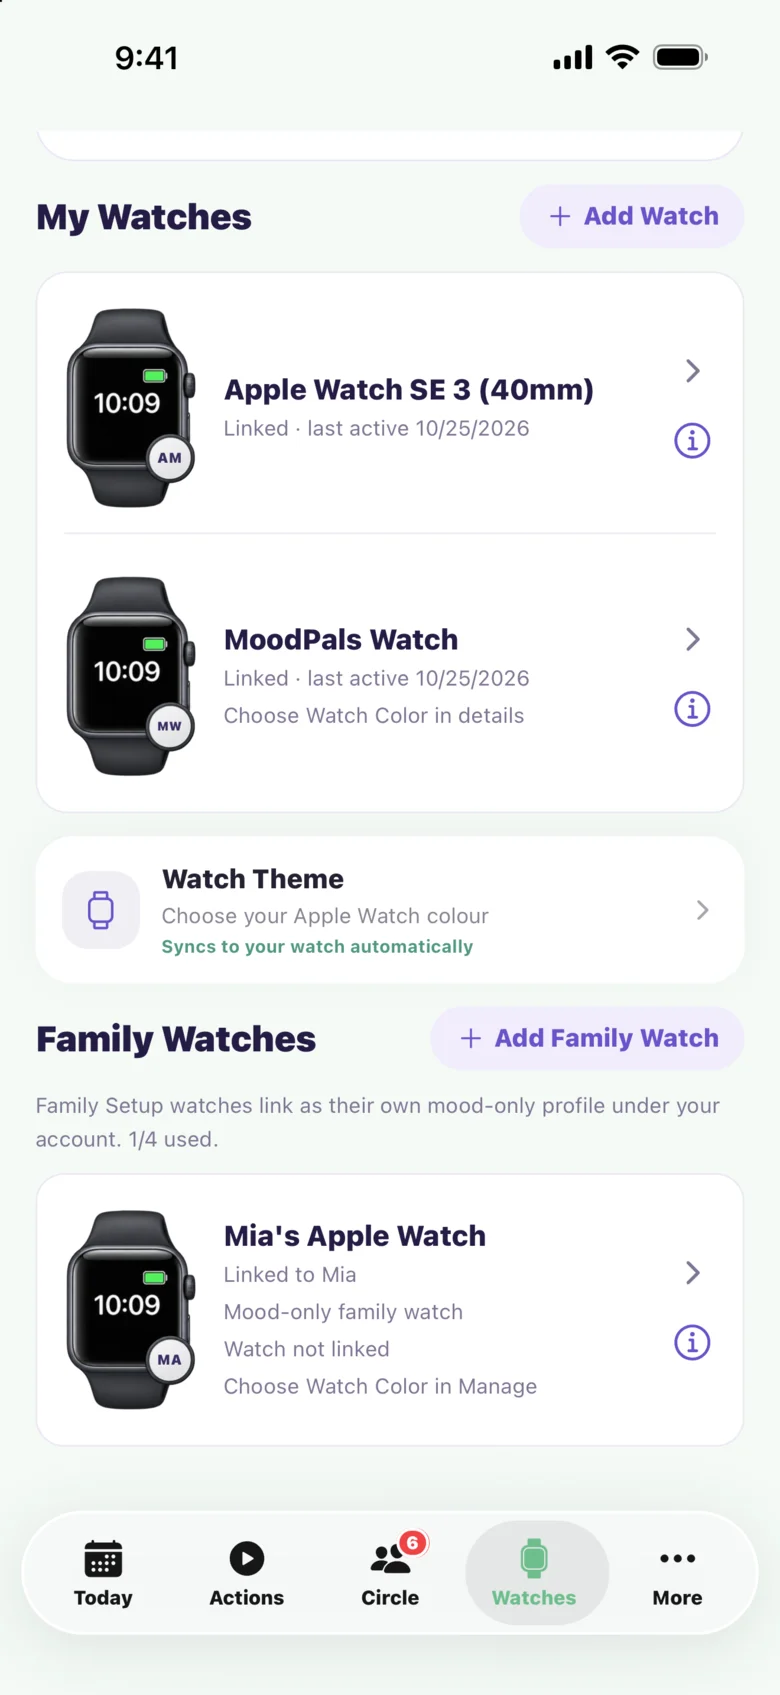
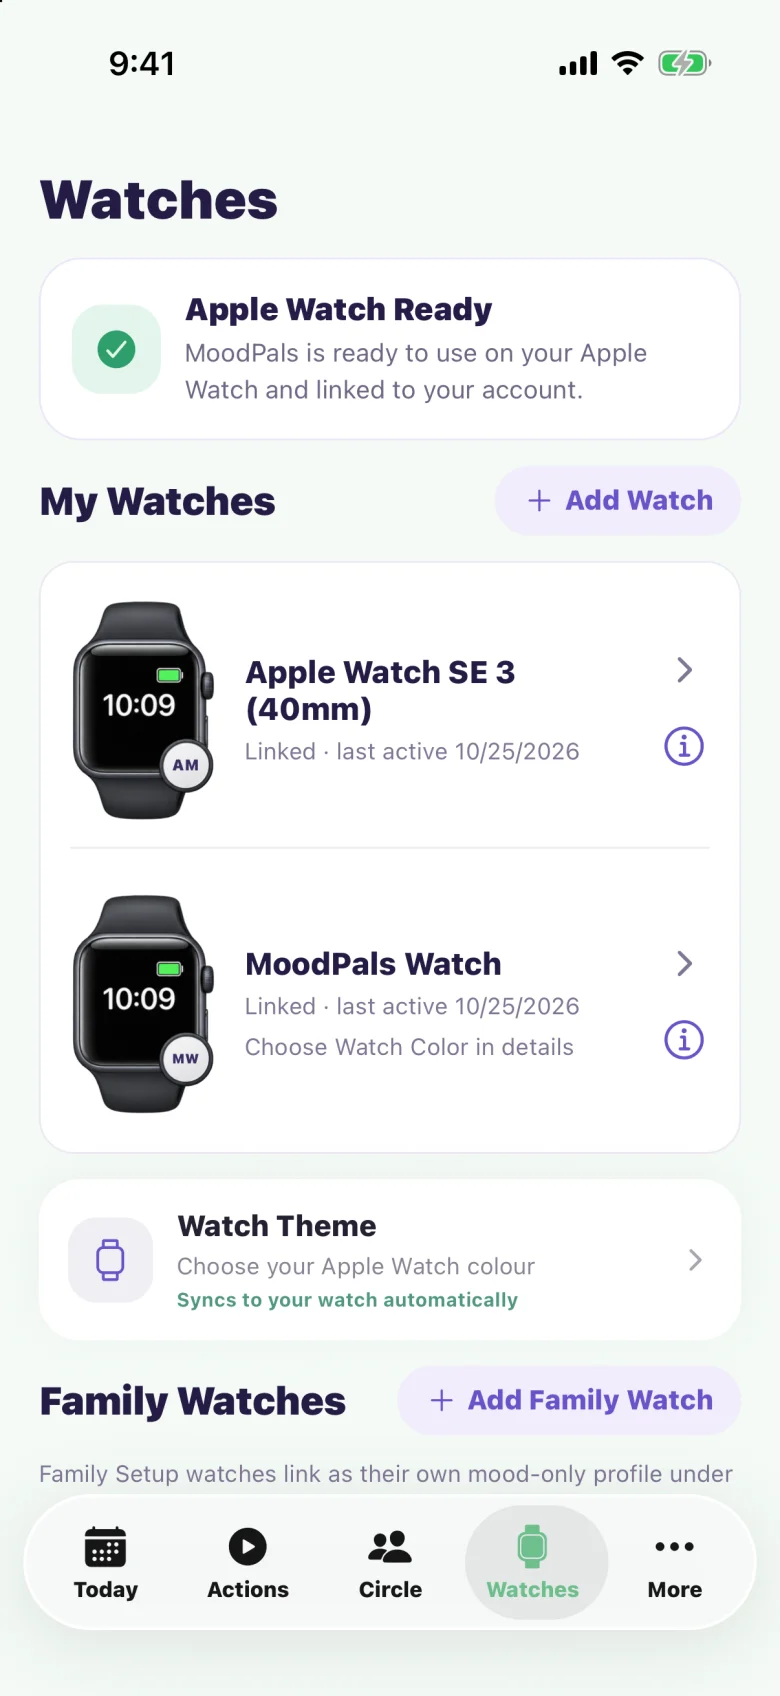
Website: fresh app screenshots (Actions, HRV, Ask MoodPal, Watches tab)

diff --git a/website/public/index.html b/website/public/index.html
@@ -51,7 +51,7 @@
     <h2>What MoodPals does</h2>
     <div class="feature-list">
       <article class="feature">
-        <div class="phone" data-screen="today"></div>
+        <div class="phone" data-screen="hrv"></div>
         <div><span class="kicker mint">Daily stress score</span><h3>Know your stress level in one glance</h3>
         <p>MoodPals compares each Apple Watch HRV reading with <em>your own</em> last 21 days, not population averages, and shows a clear level: Great, Normal, Elevated or Overload. You also get an energy score built from your sleep, stress and activity.</p>
         <ul><li>HRV trend coloured by stress level</li><li>Hourly heart rate and resting heart rate</li><li>Day, week, month and year stress trends</li></ul></div>

diff --git a/website/public/app.js b/website/public/app.js
@@ -81,7 +81,7 @@ document.querySelectorAll('.phone').forEach(phone => {
   phone.appendChild(screen);
   const slides = (phone.dataset.slides || '').split(',').filter(Boolean);
   if (slides.length) {
-    screen.innerHTML = slides.map((s, i) => `<img class="slide${i ? '' : ' on'}" src="/img/screens/${s}.webp?v=12" alt="MoodPals ${s.replace('-', ' ')} screen">`).join('');
+    screen.innerHTML = slides.map((s, i) => `<img class="slide${i ? '' : ' on'}" src="/img/screens/${s}.webp?v=13" alt="MoodPals ${s.replace('-', ' ')} screen">`).join('');
     let i = 0;
     const imgs = screen.querySelectorAll('.slide');
     setInterval(() => { imgs[i].classList.remove('on'); i = (i + 1) % imgs.length; imgs[i].classList.add('on'); }, 2800);
